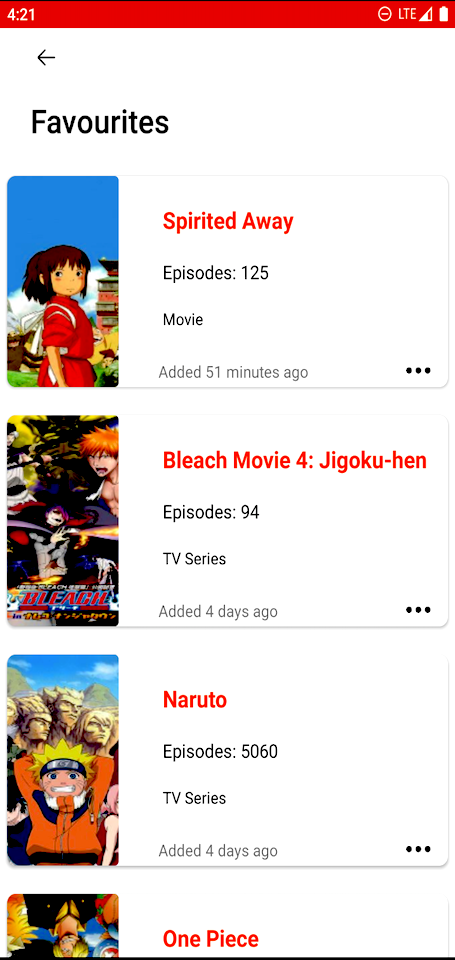
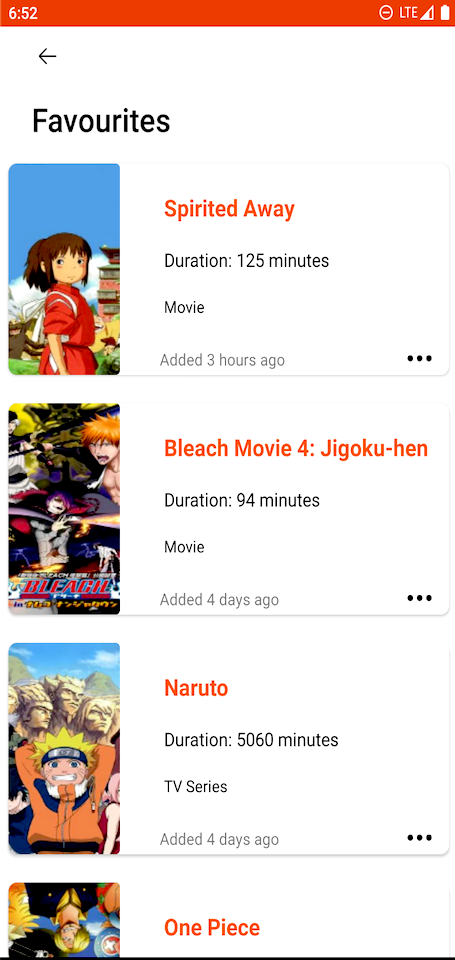
Minor bugs fixed,REDMI app improved.

diff --git a/app/src/main/java/com/example/animeapp/screen_favorite/presentation/adapters/FavoriteAdapter.kt b/app/src/main/java/com/example/animeapp/screen_favorite/presentation/adapters/FavoriteAdapter.kt
@@ -59,7 +59,7 @@ class FavoriteAdapter(private val actionListener: FavoriteOnClickListener) :
                 if (anime.attributes?.showType == "TV") animeFavType.text =
                     "${anime.attributes?.showType} Series"
                 val length = anime.attributes?.totalLength.toString()
-                episodeLengh.text = "Episodes: $length"
+                episodeLengh.text = "Duration: $length minutes"
                 val addedDate = anime.getCreatedAt()
                 createDate.text = "Added $addedDate"
 

diff --git a/app/src/main/java/com/example/animeapp/screen_home/data/repository/HomeRepositoryImpl.kt b/app/src/main/java/com/example/animeapp/screen_home/data/repository/HomeRepositoryImpl.kt
@@ -25,7 +25,7 @@ class HomeRepositoryImpl @Inject constructor(
 
     override fun createPagerAnime(): Flow<PagingData<Anime>> = Pager(
         config = PagingConfig(
-            pageSize = 20,
+            pageSize = 18,
             enablePlaceholders = false
         ),
         pagingSourceFactory = {

diff --git a/README.md b/README.md
@@ -8,10 +8,8 @@ server [Back4App](https://www.back4app.com)
 [<img src="meta/android/screenshots/screenshot_2.png" width=160>](meta/android/screenshots/screenshot_2.png)
 [<img src="meta/android/screenshots/screenshot_3.png" width=160>](meta/android/screenshots/screenshot_3.png)
 [<img src="meta/android/screenshots/screenshot_4.png" width=160>](meta/android/screenshots/screenshot_4.png)
-[<img src="meta/android/screenshots/screenshot_5.png" width=160>](meta/android/screenshots/screenshot_5.png)
-[<img src="meta/android/screenshots/screenshot_6.png" width=160>](meta/android/screenshots/screenshot_6.png)
-[<img src="meta/android/screenshots/screenshot_7.png" width=160>](meta/android/screenshots/screenshot_7.png)
-[<img src="meta/android/screenshots/screenshot_8.png" width=160>](meta/android/screenshots/screenshot_8.png)
+[<img src="meta/android/gifs/shimmer_gif.GIF" width=240>](meta/android/gifs/shimmer_gif.GIF)
+
 
 ## Libraries
 
@@ -37,9 +35,9 @@ server [Back4App](https://www.back4app.com)
 * [LiveData](https://developer.android.com/topic/libraries/architecture/livedata) Data objects that
   notify views of changes to the underlying database.
 
-*[Kotlin flows](https://developer.android.com/kotlin/flow) In coroutines, a flow is a type that can
-emit multiple values sequentially, as opposed to suspend functions that return only a single value.
-For example, you can use a flow to receive live updates from a database.
+* [Kotlin flows](https://developer.android.com/kotlin/flow) In coroutines, a flow is a type that can
+  emit multiple values sequentially, as opposed to suspend functions that return only a single
+  value. For example, you can use a flow to receive live updates from a database.
 
 * [ViewModel](https://developer.android.com/topic/libraries/architecture/viewmodel) Data related to
   the user interface that is not destroyed when the application is rotated. Easily schedule
